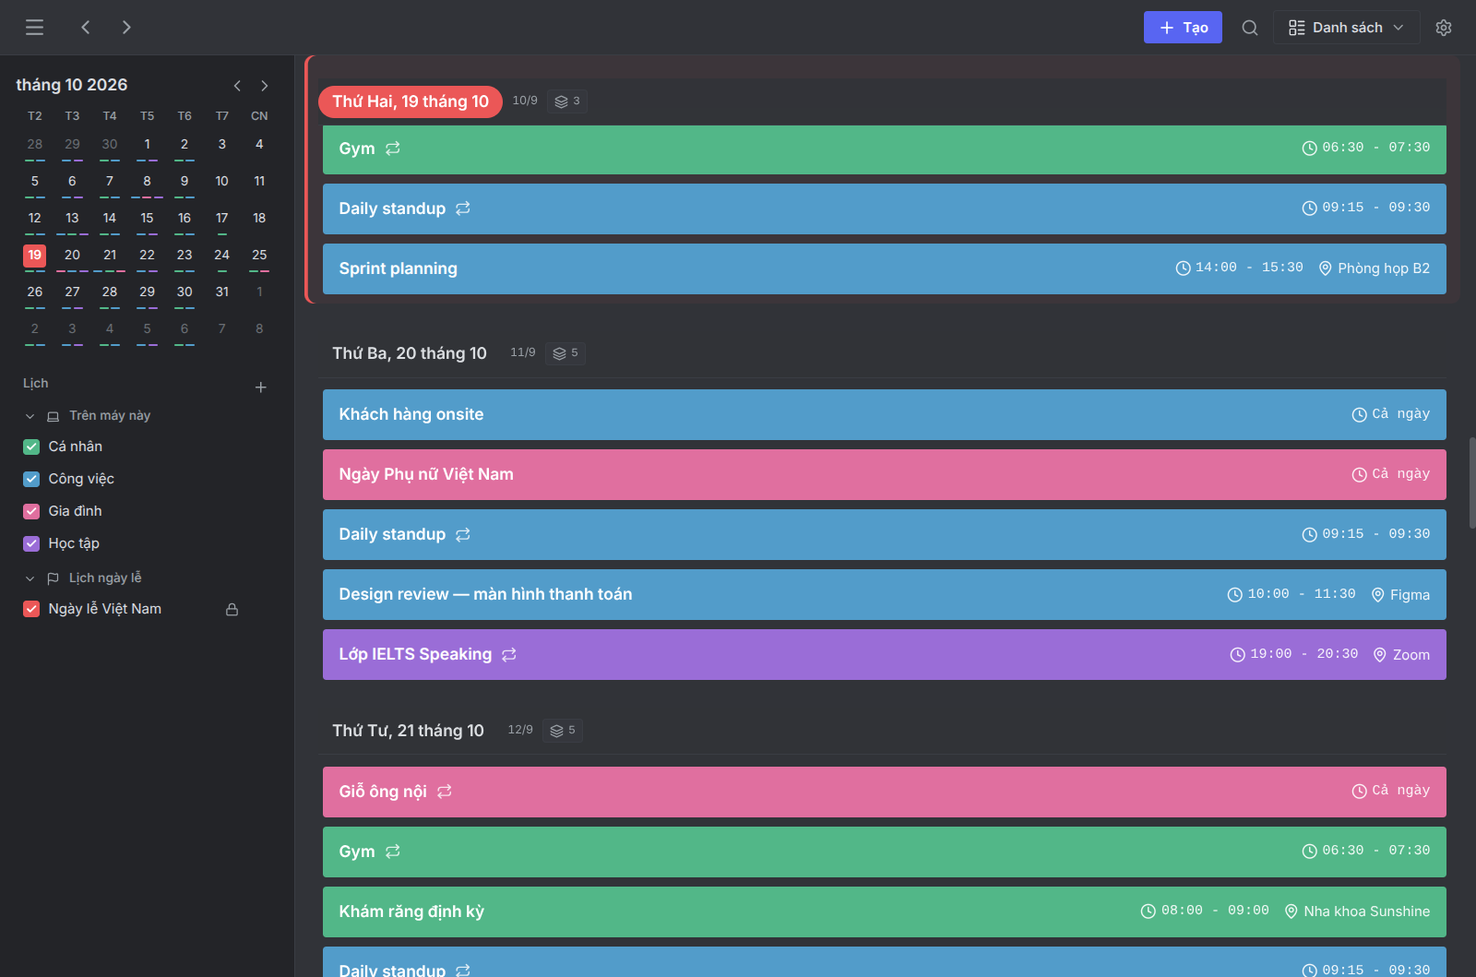
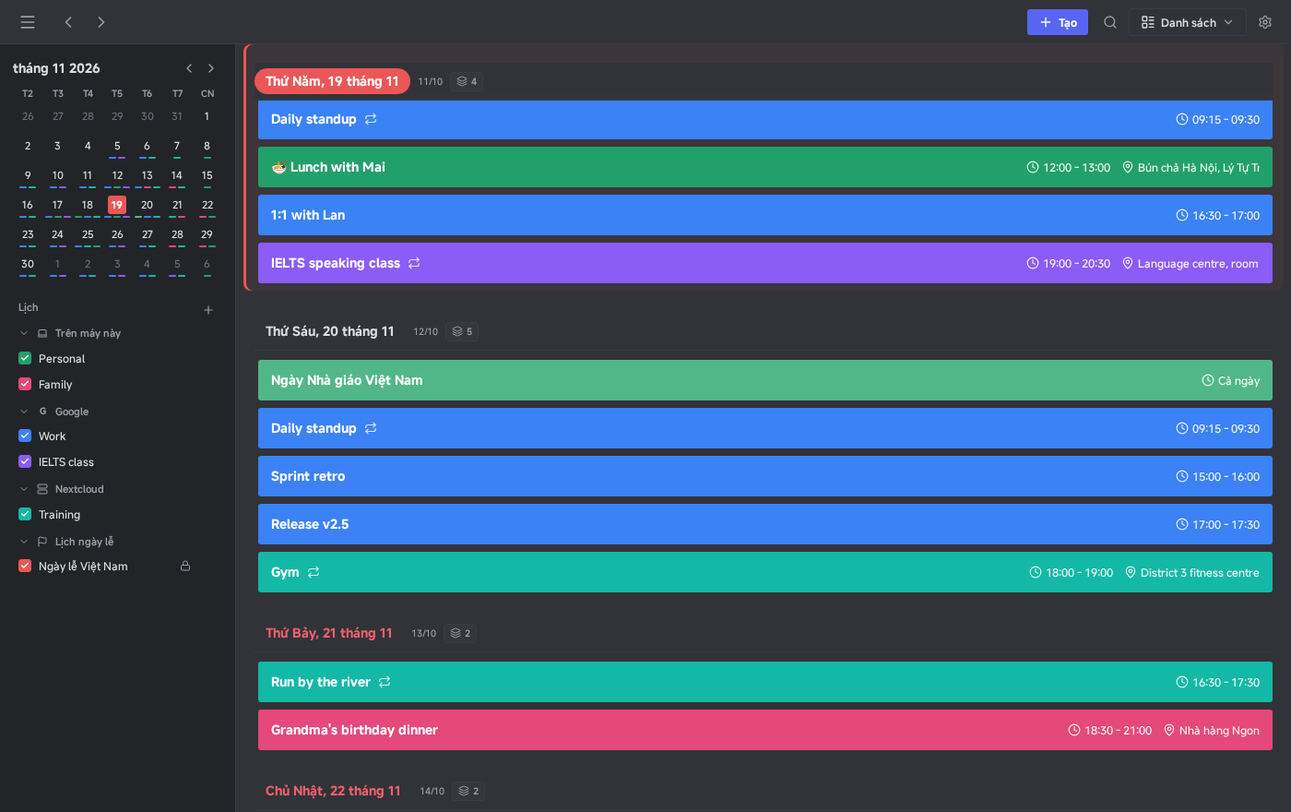
Show the app as it is now in the README, with screenshots of 0.2.0
The five screenshots dated from 4 November, 107 commits back: Inter
instead of MiSans, no tile, no Year view, no typed dates, no emoji, and
an editor that has since changed. The README also told people to
download a release, but none has been published yet.

Nine screenshots replace them, all of made-up accounts and events: the
month view (dark), the week in the light theme with a second time zone,
the year, the docked editor, a lunar anniversary typed into a title, the
list with the interface in Vietnamese, search finding "Giỗ" from "gio",
Add account, and the mini window. They were taken in headless Chromium
from the real renderer and preload, talking over HTTP to the real
main-process IPC handlers and SQLite database run in Node, because
Electron cannot run headless on the machine they were made on. Only the
transport differs; no sync ran, and the two remote accounts are rows
with nothing behind them.

The text now says no release is out yet and how one is cut; adds the
One Calendar comparison (what is the same, what is xrncal's own, what is
left out on purpose, from docs/urd.md), iCloud and the other CalDAV
servers, the http:// rule for passwords, the launcher's unpacked copy
in ~/.cache/xrncal, Undo on delete, the newer-database refusal, the
sync error reasons, and what site/ is and where Pages publishes it;
Ctrl+Backspace in the editor deletes the event only outside a text
field. README.vi.md says the same in Vietnamese. The codebase summary
[…]

diff --git a/README.md b/README.md
@@ -10,6 +10,7 @@
 </p>
 
 <p align="center">
+  <img src="https://img.shields.io/badge/version-0.2.0-5865F2?style=flat-square" alt="Version 0.2.0">
   <img src="https://img.shields.io/badge/Windows-10%2F11-1A73E8?style=flat-square" alt="Windows">
   <img src="https://img.shields.io/badge/Linux-AppImage-34C77B?style=flat-square" alt="Linux">
   <img src="https://img.shields.io/badge/Electron-44-47848F?style=flat-square" alt="Electron">
@@ -19,7 +20,7 @@
 </p>
 
 <p align="center">
-  <img src="docs/assets/screenshots/month-dark.png" alt="xrncal month view with lunar day labels, ISO week numbers and calendars from several accounts" width="880">
+  <img src="docs/assets/screenshots/month-dark.png" alt="xrncal month view in the dark theme: lunar day numbers in every cell, ISO week numbers, a Vietnamese holiday, and calendars from this computer, a Google account and a Nextcloud server in the sidebar" width="880">
 </p>
 
 <p align="center">
@@ -45,7 +46,7 @@ Most calendar apps are **a client for one service**, or **a web tab in a wrapper
 
 This is the reason the app exists.
 
-- Lunar day labels appear in **every view** — month cells, week and day headers, list groups, the year grid. Mùng 1 and rằm are marked, each with its own colour and shape.
+- Lunar day labels appear in **every view** — month cells, week and day headers, list groups, the year grid. Mùng 1 and rằm are marked, each with its own colour and shape, and Tết is named.
 - **Giỗ / anniversaries that repeat by the lunar year** are a real event type. You declare *"the 12th day of the 8th lunar month"* and the app resolves the Gregorian date for **each year**, handling leap months and short 29-day months.
 - Google Calendar, Outlook and Apple Calendar have no lunar recurrence rule at all. There, the only option is to look each year up and create it by hand — miss one and the whole series drifts.
 - Those anniversaries are **materialised** into an ordinary event in a synced calendar, so your phone and your colleagues still see them even though they don't run xrncal.
@@ -57,7 +58,7 @@ SQLite is the **source of truth for the UI**. With no network you can still brow
 
 ### 3. Three providers, one window, no favourites
 
-Google Calendar, Microsoft 365 / Outlook.com and CalDAV (Nextcloud, Synology, generic) sync **side by side**, each engine with its own `.catch` — one broken provider cannot block or cancel the other two.
+Google Calendar, Microsoft 365 / Outlook.com and CalDAV (iCloud, Nextcloud, Synology, Fastmail, Radicale, any other server) sync **side by side**, each engine with its own `.catch` — one broken provider cannot block or cancel the other two.
 
 ### 4. Conflicts are surfaced, not silently overwritten
 
@@ -80,6 +81,14 @@ All five views are React components written for this app, with no third-party ca
 | Sync conflicts | Usually a silent last-write-wins | `If-Match` → 412 flagged → you decide |
 | Read-only calendars | Blocked in the UI | Blocked in the repo layer, unbypassable |
 
+### Modelled on One Calendar
+
+The way xrncal looks and behaves follows One Calendar (Code Spark), which has no Linux app and no Vietnamese lunar calendar. [`docs/urd.md`](docs/urd.md) holds the scope.
+
+- **The same:** a click on an empty slot opens the full editor, not a title-only popover; a drop asks *Move*, *Copy* or *Cancel*; the sidebar lists each account with its calendars underneath; *Add account* walks from the account type to its calendars.
+- **Its own:** lunar dates and lunar-year anniversaries, a Linux build, dates typed into the title in Vietnamese or English, a conflict screen, and a database file you can back up and restore yourself. Nothing is behind a paid tier.
+- **Left out on purpose:** macOS and phone apps, live tiles and lock-screen entries, desktop widgets, maps, Facebook events, a task list, and Exchange on-premises (Microsoft accounts go through Graph only).
+
 ---
 
 ## Screenshots
@@ -87,33 +96,55 @@ All five views are React components written for this app, with no third-party ca
 <table>
 <tr>
 <td width="50%" valign="top">
-<img src="docs/assets/screenshots/week-light.png" alt="Week view, light theme">
-<p align="center"><sub><strong>Week</strong> — light theme, week-number column, current-time line</sub></p>
+<img src="docs/assets/screenshots/week-light.png" alt="Week view in the light theme with a second time zone beside the hours">
+<p align="center"><sub><strong>Week</strong> — light theme, a second time zone beside the hours, the current-time line</sub></p>
 </td>
 <td width="50%" valign="top">
-<img src="docs/assets/screenshots/list.png" alt="List view">
-<p align="center"><sub><strong>List</strong> — grouped by day, lunar date beside each date</sub></p>
+<img src="docs/assets/screenshots/year.png" alt="Year view with twelve months on one page">
+<p align="center"><sub><strong>Year</strong> — twelve months on one page, each day tinted by its events, lunar dates under the numbers</sub></p>
 </td>
 </tr>
 <tr>
 <td width="50%" valign="top">
-<img src="docs/assets/screenshots/event-editor.png" alt="Event editor dialog">
-<p align="center"><sub><strong>Editor</strong> — calendar, all-day, location, meeting link, guests, recurrence</sub></p>
+<img src="docs/assets/screenshots/event-editor.png" alt="Event editor docked beside the week">
+<p align="center"><sub><strong>Editor</strong> — docked beside the grid: calendar, colour, time zone, reminders, place, meeting link, guests</sub></p>
 </td>
 <td width="50%" valign="top">
-<img src="docs/assets/screenshots/search.png" alt="Search palette">
-<p align="center"><sub><strong>Search</strong> — FTS5, Vietnamese diacritics, opens with <code>/</code></sub></p>
+<img src="docs/assets/screenshots/lunar-entry.png" alt="A new event whose title names a lunar date, made into a yearly lunar anniversary">
+<p align="center"><sub><strong>Typed dates</strong> — "Giỗ bà ngoại 3/2 âm lịch" becomes a lunar-year anniversary with next dates and a reminder the day before</sub></p>
+</td>
+</tr>
+<tr>
+<td width="50%" valign="top">
+<img src="docs/assets/screenshots/list.png" alt="List view with the interface in Vietnamese">
+<p align="center"><sub><strong>List</strong> — the interface in Vietnamese; each day with its lunar date and event count</sub></p>
+</td>
+<td width="50%" valign="top">
+<img src="docs/assets/screenshots/search.png" alt="Search palette over the month view">
+<p align="center"><sub><strong>Search</strong> — opens with <code>/</code> or <code>Ctrl+K</code>; accents optional, so "gio" finds "Giỗ"</sub></p>
+</td>
+</tr>
+<tr>
+<td width="50%" valign="top">
+<img src="docs/assets/screenshots/add-account.png" alt="Add account dialog listing Google, Microsoft, iCloud, CalDAV, a link, public holidays and this computer">
+<p align="center"><sub><strong>Add account</strong> — in a build from source, Google and Microsoft first ask for your own sign-in details</sub></p>
+</td>
+<td width="50%" valign="top" align="center">
+<img src="docs/assets/screenshots/mini.png" alt="The mini window listing today's and tomorrow's events" width="300">
+<p align="center"><sub><strong>Mini window</strong> — from the tray, can stay on top</sub></p>
 </td>
 </tr>
 </table>
 
-<sub>Captured from a real build running on sample data. The UI ships in both Vietnamese and English.</sub>
+<sub>Made-up accounts and events, captured from the 0.2.0 code.</sub>
 
 ---
 
 ## Install
 
-Download the latest version from **[Releases](https://github.com/Xernnn/xrncal-desktop/releases/latest)**:
+No release has been published yet: version 0.2.0 is in `package.json`, and the release workflow is ready. Until a release is out, [build it yourself](#build-it-yourself).
+
+A release will be at **[Releases](https://github.com/Xernnn/xrncal-desktop/releases/latest)**, with:
 
 - **Windows 10/11:** `xrncal Setup <version>.exe`. Until the installer is code-signed, SmartScreen asks first: *More info → Run anyway*.
 - **Linux:** `xrncal-<version>.AppImage`. Make it executable (`chmod +x`, or *Properties → Allow executing*) and open it.
@@ -137,6 +168,8 @@ npm run app:install
 ```
 
 This builds the AppImage, puts it at `~/Applications/xrncal.AppImage`, writes a launcher to `~/.local/share/applications/xrncal.desktop` and refreshes the menu. Look for "xrncal" in your app list. Re-run the same command to update: it overwrites the same paths, and it writes by `rename`, so it **cannot corrupt a running app** (an open window keeps the build it started on until you quit and reopen it).
+
+The launcher runs the app from an unpacked copy in `~/.cache/xrncal` rather than from the AppImage's own mount, which can vanish under a running app, and under X11 (`--ozone-platform=x11`) so the mini window can place itself and stay on top on Wayland desktops. A reinstall removes the unpacked copies of older builds that nothing is using.
 
 If you would rather hold the AppImage yourself:
 
@@ -162,7 +195,7 @@ npm run dev            # electron-vite, renderer hot reload
 
 ### Connecting accounts
 
-CalDAV (Nextcloud, Synology, Fastmail, …) and iCloud need only an address and your credentials (an app-specific password for iCloud).
+CalDAV (Nextcloud, Synology, Fastmail, …) and iCloud need only an address and your credentials (an app-specific password for iCloud). A plain `http://` server is accepted only on this computer, a private network, a tailnet or a local name; one on the open internet is refused, so the password is never sent in clear.
 
 **Google and Microsoft** sign in from the browser, using an OAuth client: sign-in details that identify the app to them. A build that carries one signs in with no setup. In a copy without one, **Add account → Google or Microsoft** walks you through making your own, step by step, and takes the details right there: nothing to edit, no restart. They are stored encrypted by your system's keyring, the same as your account tokens, and the secret is never shown again.
 
@@ -184,7 +217,7 @@ For a packaged build of your own, put the same lines in `xrncal.env` inside the 
 | Linux | `~/.config/xrncal/xrncal.sqlite` |
 | Windows | `%APPDATA%\xrncal\xrncal.sqlite` |
 
-xrncal also copies it once a week into a `backups` folder next to it, keeping the last four (**Settings → General → Back up automatically**). Back it up yourself at any time from **Settings → Back up database**, which writes a plain `.sqlite` file any SQLite tool can open, and bring one back with **Settings → Restore from backup**, which opens in the automatic backups (what is there now is saved there first). Backups are readable by your user only.
+xrncal also copies it once a week into a `backups` folder next to it, keeping the last four (**Settings → General → Back up automatically**). Back it up yourself at any time from **Settings → Back up database**, which writes a plain `.sqlite` file any SQLite tool can open, and bring one back with **Settings → Restore from backup**, which opens in the automatic backups (what is there now is saved there first). Backups are readable by your user only. A database that a newer xrncal has used is not opened by an older one, and a database that will not open is explained before the app quits.
 
 If something goes wrong, **Settings → Show log file** opens the folder with `xrncal.log`: startup, sync failures and recoveries, backups and update errors. It never holds event text or passwords.
 
@@ -199,18 +232,18 @@ If something goes wrong, **Settings → Show log file** opens the folder with `x
 <td width="50%" valign="top">
 
 **Calendar**
-- Five views: Day, Week, Month, Year, List — each shows one period per page; Year fits all twelve months on screen and scrolls a year at a time
+- Five views: Day, Week, Month, Year, List — each shows one period per page; Year fits all twelve months on screen, tints each day with its events' colours and moves a year at a time
 - Click an empty slot or an event for the full editor, or Create in the header; right-click an event to edit, duplicate or delete it, or a day to start an event there
 - Drag and drop, edge resize, drag-select a range
 - Snap step of 15 / 30 / 60 minutes, and a separate step for the editor's time lists
 - A new event is as long as you set it to be (15 minutes to 2 hours) when you click a slot, right-click or press Create; a dragged range keeps its own length
 - An emoji in front of a title from a button in the editor ("🍴 Lunch"), with the ones you pick most kept at the top
-- Type the when into the title: "Lunch tomorrow at 12:30", "Họp 3h chiều thứ 6", "Standup every monday 9:15" fill the date, time and repeat, and the title is saved without them
-- Recurring edits: this one / this and future / all
-- `Ctrl+Z` undoes a move, resize, copy or delete
+- Type the when into the title: "Lunch tomorrow at 12:30", "Họp 3h chiều thứ 6", "Standup every monday 9:15" fill the date, time and repeat, and the title is saved without them; × keeps the title as typed
+- Recurring edits: this one / this and future / all; one date of a series, or the rest of it, can move to another calendar
+- Deleting shows an Undo button instead of asking first, and `Ctrl+Z` undoes a move, resize, copy or delete
 - Print the week or month, or save it as a PDF: one A4 page, with the lunar dates
 - Multi-day and all-day events, ISO week numbers; weeks start on Monday, Sunday or Saturday
-- A second timezone gutter for cross-border schedules
+- A second timezone beside the hours, for cross-border schedules
 
 </td>
 <td width="50%" valign="top">
@@ -218,7 +251,7 @@ If something goes wrong, **Settings → Show log file** opens the folder with `x
 **Vietnam & languages**
 - Lunar dates in every view; mùng 1, rằm and Tết marked
 - Anniversaries recurring by lunar year, leap months handled, with a reminder the day before - or just type "Giỗ ông 12/8 âm lịch"
-- Vietnamese and international holiday calendars, one click
+- Vietnamese and international holiday calendars, one click, extended by themselves as the years pass
 - Interface in Vietnamese and English - a new install follows your computer's language, clock and first day of the week
 
 </td>
@@ -228,15 +261,17 @@ If something goes wrong, **Settings → Show log file** opens the folder with `x
 
 **Sync**
 - Google Calendar (OAuth loopback + PKCE)
-- Microsoft 365 / Outlook.com (Graph)
-- CalDAV: Nextcloud, Synology, generic
+- Microsoft 365 / Outlook.com (Graph), including occurrences moved, edited or cancelled in Outlook
+- CalDAV: iCloud, Nextcloud, Synology, Fastmail, generic; one account per user per server
 - Single-occurrence edits push correctly too
 - Reminders and guest lists sync both ways
 - Reply Yes / Maybe / No to invitations
-- Subscribe to any `.ics` / `webcal://` link
-- Adaptive polling: 20s while focused, 5m in the tray
+- Subscribe to any `.ics` / `webcal://` link, refreshed every six hours
+- Adaptive polling: every 20 s while the window has focus, every 5 min otherwise
 - A resolution screen for 412 conflicts
 - CalDAV edits keep what other apps stored on the event
+- A new event whose create answer is lost is made once, not twice
+- Each account says why its last sync failed (sign-in refused, server not found, keyring locked, …)
 
 </td>
 <td width="50%" valign="top">
@@ -244,13 +279,14 @@ If something goes wrong, **Settings → Show log file** opens the folder with `x
 **Workspace**
 - Keeps running in the tray when the window is closed, and can start when you sign in, so reminders always ring (Ctrl+Q quits)
 - Always-on-top mini window from the tray
-- Reminders per event (all-day ones too), with snooze and a Join button
-- Light / dark / system theme, custom wallpaper
+- Reminders per event (all-day ones too), with snooze and a Join button; snoozes and the cards on screen survive a restart
+- Light / dark / system theme, an accent colour, and a wallpaper (four ship with the app, or your own picture) with blur and darkness
 - Search that ignores accents ("hop" finds "họp"), title suggestions from your own history
 - The Location field offers the places you have used before as you type, accents optional ("ca phe" finds "Cà phê")
 - Each event can keep its own time zone and colour, kept when it syncs over CalDAV or is exported; events saved without one (as Google's export writes them) open in the zone you were in on their date
 - `.ics` import (Settings, drag a file onto the window, or *Open with xrncal*) and export per calendar; database backup and restore
 - Detach a provider and keep every event it brought
+- Dialogs keep the keyboard inside them and announce themselves to screen readers
 
 </td>
 </tr>
@@ -292,7 +328,7 @@ years) and `T` for today.
 | --- | --- |
 | `Enter` | Save, straight from the title field |
 | `Ctrl+Enter` | Save / create from anywhere in the form |
-| `Ctrl+⌫` | Delete the event being edited |
+| `Ctrl+⌫` `Ctrl+Del` | Delete the event being edited (in a text field they delete a word, as anywhere else) |
 | `Esc` | Close the picker you are in, else the editor |
 
 ---
@@ -320,12 +356,12 @@ flowchart LR
 
 | Layer | Directory | Responsibility |
 | --- | --- | --- |
-| Renderer | `src/renderer` | React 19, five views, editor, i18n, theming |
+| Renderer | `src/renderer` | React 19, five views, editor, i18n, theming, the mini window (`#mini`) |
 | Preload | `src/preload` | Typed `window.xrncal`, sandbox on |
-| Main | `src/main` | SQLite, OAuth, sync, tray, notifications |
-| Shared | `src/shared` | `CalendarEvent`, `XrncalAPI`, lunar calendar, holidays |
+| Main | `src/main` | SQLite and its 29 migrations, OAuth, sync, tray, notifications, backups, updates |
+| Shared | `src/shared` | `CalendarEvent`, `XrncalAPI`, lunar calendar, holidays, recurrence, title parsing |
 
-The renderer **never** imports `src/main`; IPC is the only bridge, and every channel is declared in one place, `src/shared/ipc-contract.ts`. Read-only calendars (holiday subscriptions) are rejected in the repo layer rather than the UI, so no code path can write to them.
+The renderer **never** imports `src/main`; IPC is the only bridge, and every channel is declared in one place, `src/shared/ipc-contract.ts`. Requests are answered only when they come from the app's own page. Read-only calendars (holiday subscriptions, `.ics` feeds) are rejected in the repo layer rather than the UI, so no code path can write to them. Packaged builds turn off Electron's run-as-Node, `NODE_OPTIONS` and inspector switches, and refuse to start with a debugging port.
 
 ---
 
@@ -334,14 +370,18 @@ The renderer **never** imports `src/main`; IPC is the only bridge, and every cha
 ```bash
 npm run dev            # run the app with renderer hot reload
 npm run typecheck      # tsc for main + renderer (run before committing)
-npm run lint           # ESLint 10 flat config
+npm run lint           # ESLint 10 flat config, no warnings allowed
 npm run test           # Vitest — runs in Node, no Electron binary needed
-npm run test:e2e       # build, then Playwright drives the real app
+npm run test:e2e       # build, then Playwright drives the real app (needs a display)
 npm run test:caldav    # CalDAV sync against a real Radicale (pip install radicale)
 npm run build          # production bundle -> out/
 ```
 
-Run a single test file: `npx vitest run tests/expand-occurrences.test.ts`. CI runs lint + typecheck + test + build on every push and pull request, drives the built app with Playwright, and syncs with a real Radicale server.
+Run a single test file: `npx vitest run tests/expand-occurrences.test.ts`, or one test with `-t "<name>"`. `test:caldav` starts its own Radicale on a spare port; point `XRNCAL_RADICALE` at the `radicale` executable if it is not on your `PATH` (a virtualenv's, say). CI runs lint + typecheck + test + build on every push and pull request, drives the built app with Playwright under `xvfb-run`, and syncs with a real Radicale server.
+
+Releases: bump `version` in `package.json`, commit, then push a `v<version>` tag. `.github/workflows/release.yml` builds the Windows installer and the Linux AppImage into a draft GitHub release; nothing reaches users until that draft is published.
+
+`site/` is the project's homepage and privacy policy, which Google's OAuth consent screen asks for. `.github/workflows/pages.yml` publishes it to [GitHub Pages](https://xernnn.github.io/xrncal-desktop/) when it changes on `main`.
 
 | Document | Contents |
 | --- | --- |

diff --git a/docs/codebase-summary.md b/docs/codebase-summary.md
@@ -1,8 +1,8 @@
 # xrncal — Codebase Summary
 
-**Last updated:** 2026-10-27  
-**Version:** 0.1.0  
-**Build status:** 539 tests in 62 files passing, 0 TypeScript errors, 0 lint errors, clean production build. CI (`.github/workflows/ci.yml`) runs lint + typecheck + tests + build on every push and PR; a `v*` tag runs `.github/workflows/release.yml`.
+**Last updated:** 2026-11-21  
+**Version:** 0.2.0  
+**Build status:** 1,341 tests in 140 files passing, 0 TypeScript errors, 0 lint errors, clean production build. CI (`.github/workflows/ci.yml`) runs lint + typecheck + tests + build on every push and PR; a `v*` tag runs `.github/workflows/release.yml`.
 
 ---
 
@@ -23,7 +23,7 @@ xrncal/
 │   │   │   ├── settings-ipc.ts  # Settings get/set IPC handlers
 │   │   │   └── subscriptions-ipc.ts # Calendars subscribed to by .ics / webcal link
 │   │   ├── db/                  # Database layer
-│   │   │   ├── database.ts      # initDatabase, runMigrations (inline 001-025), seedDefaultData
+│   │   │   ├── database.ts      # initDatabase, runMigrations (inline 001-029), seedDefaultData
 │   │   │   ├── sqlite-driver.ts # ISqliteDatabase abstraction (node:sqlite / better-sqlite3)
 │   │   │   ├── backup.ts        # VACUUM INTO snapshot for Settings → Back up database
 │   │   │   ├── migrations/      # Reference copies of the inline migrations (001-027)
@@ -138,7 +138,7 @@ xrncal/
 │       ├── locale-defaults.ts   # A new profile's language, clock and week start from the computer's locale
 │       ├── zone-history.ts      # Where the user was, from when: the zone of an event saved without one; moves added as the computer's zone changes
 │       └── ipc-contract.ts      # IPC_CHANNELS constants and XrncalAPI interface
-├── tests/                       # Vitest unit tests (~950 tests / 89 files); e2e/ drives the built app
+├── tests/                       # Vitest unit tests (1,341 tests / 140 files); e2e/ drives the built app
 │   ├── integration/             # CalDAV sync against a real Radicale (`npm run test:caldav`, not in `npm run test`)
 │   └── stubs/electron.ts        # `electron` module stub for main-process tests
 └── docs/
@@ -297,7 +297,7 @@ Key types: `CalendarEvent`, `ExpandedOccurrence`, `Calendar`, `CalendarAccount`,
 
 ---
 
-## Database Schema (25 migrations)
+## Database Schema (29 migrations)
 
 Applied by `runMigrations()` from the inline constants in `src/main/db/database.ts`, each in one
 transaction with the row recording it; the files in `src/main/db/migrations/` are reference copies.
@@ -327,6 +327,10 @@ transaction with the row recording it; the files in `src/main/db/migrations/` ar
 | 023 | `keep_mine`: a conflict resolved as "keep mine" overwrites the provider's event, without If-Match |
 | 024 | Moves to another account's calendar, made before they were refused, become new events there |
 | 025 | `recurrence_id`: a CalDAV invitation to single dates of someone else's series, kept as events |
+| 026 | Meeting links that came back from CalDAV escaped as text (`\,` `\;`) unescaped, and pushed again |
+| 027 | Google calendars listed in full once more, so stored series get their EXDATE and RDATE lines |
+| 028 | `create_id`: the id a new event's create went out with, so a lost answer makes no second event |
+| 029 | `calendars.holiday_type`: a holiday subscription is found by its type, not by its name |
 
 ## Test Coverage
 
@@ -345,8 +349,8 @@ tests/
 └── undo-restore.test.ts           # Bringing a deleted event back, before and after its push
 ```
 
-**Total: 954 unit tests across 89 files, all passing**, plus 25 Playwright tests in `e2e/` that
-drive the built app and 12 in `tests/integration/` that sync with a real Radicale server
+**Total: 1,341 unit tests across 140 files, all passing**, plus 30 Playwright tests in `e2e/` that
+drive the built app and 25 in `tests/integration/` that sync with a real Radicale server
 (`docs/deployment-guide.md`, "Running Tests").
 
 Main-process tests run in plain Node; the `electron` module is aliased to

diff --git a/docs/deployment-guide.md b/docs/deployment-guide.md
@@ -47,7 +47,7 @@ npm run typecheck:web    # Renderer (tsconfig.web.json)
 
 ```bash
 npm run test
-# Runs: vitest run (the whole suite, ~950 tests)
+# Runs: vitest run (the whole suite, ~1,340 tests)
 ```
 
 Test files live in `tests/` at the project root and use `:memory:` SQLite for database tests.
